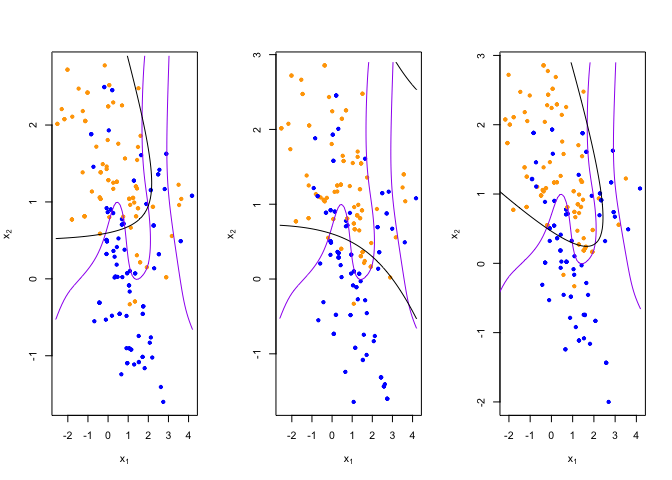
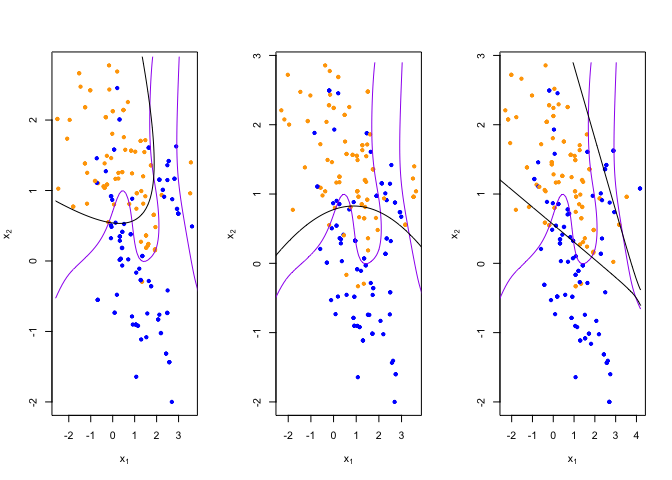
added more details about bias and variance

diff --git a/hw1/hw1.md b/hw1/hw1.md
@@ -135,7 +135,7 @@ for(b in 1:3) {
     ## 
     ## Coefficients:
     ## (Intercept)           x1           x2  
-    ##    0.284232     0.002014     0.277341
+    ##    0.341892     0.008998     0.270403
 
     ## 
     ## Call:
@@ -143,7 +143,7 @@ for(b in 1:3) {
     ## 
     ## Coefficients:
     ## (Intercept)           x1           x2  
-    ##     0.28689      0.02617      0.28134
+    ##     0.24349      0.02427      0.28235
 
     ## 
     ## Call:
@@ -151,13 +151,31 @@ for(b in 1:3) {
     ## 
     ## Coefficients:
     ## (Intercept)           x1           x2  
-    ##     0.35367     -0.05417      0.20720
+    ##    0.277525    -0.002012     0.253828
 
 ![](hw1_files/figure-gfm/unnamed-chunk-7-1.png)<!-- -->
 
-Using lm with square terms. When including square terms the variance
-increases and bias decreases, The model is thus more likely to be
-overfitting
+Using lm with square terms.
+
+Bias is a term that reflects the difference between the avaerage
+prediction of the model and true data. It describes tendancy towards
+assumptions inherent in the algorithm which may cause it to miss
+relevant relationships.
+
+Variance is a term which reflects how closely a model fits the nuances
+of a dataset. It describes the tendancy towards small fluctuations in
+data which may cause it to overfit into noise
+
+The bias and variance have a tradeoff relationship. The data scientist
+should find an optimal model which does not have so much bias it
+underfits (is not able to fit the training set) and not so much variance
+that it overfits the training set and thus performs poorly on the test
+set
+
+When including square terms the variance increases and bias decreases,
+The model can now fit the nuances in the data, but at the same time this
+puts it at risk over overfitting, and may be unable to fit a test set
+well if provided.
 
 ``` r
 ## fit linear classifier
@@ -263,7 +281,7 @@ for(b in 1:3) {
     ## 
     ## Coefficients:
     ## (Intercept)      I(x1^2)      I(x2^2)   I(x1 * x2)           x1           x2  
-    ##   0.2854408   -0.0006663   -0.0937030   -0.0838526    0.0333306    0.4152098
+    ##     0.28599     -0.02367     -0.07998     -0.11494      0.07586      0.43994
 
     ## 
     ## Call:
@@ -271,7 +289,7 @@ for(b in 1:3) {
     ## 
     ## Coefficients:
     ## (Intercept)      I(x1^2)      I(x2^2)   I(x1 * x2)           x1           x2  
-    ##    0.280563     0.002728    -0.075230    -0.061567     0.064967     0.408778
+    ##    0.282840     0.017282    -0.020237    -0.003266    -0.027961     0.295836
 
     ## 
     ## Call:
@@ -279,7 +297,7 @@ for(b in 1:3) {
     ## 
     ## Coefficients:
     ## (Intercept)      I(x1^2)      I(x2^2)   I(x1 * x2)           x1           x2  
-    ##     0.29849     -0.03241     -0.11184     -0.13989      0.14159      0.48752
+    ##     0.23460     -0.03203     -0.12194     -0.15811      0.19090      0.54271
 
 ![](hw1_files/figure-gfm/unnamed-chunk-11-1.png)<!-- -->
 
